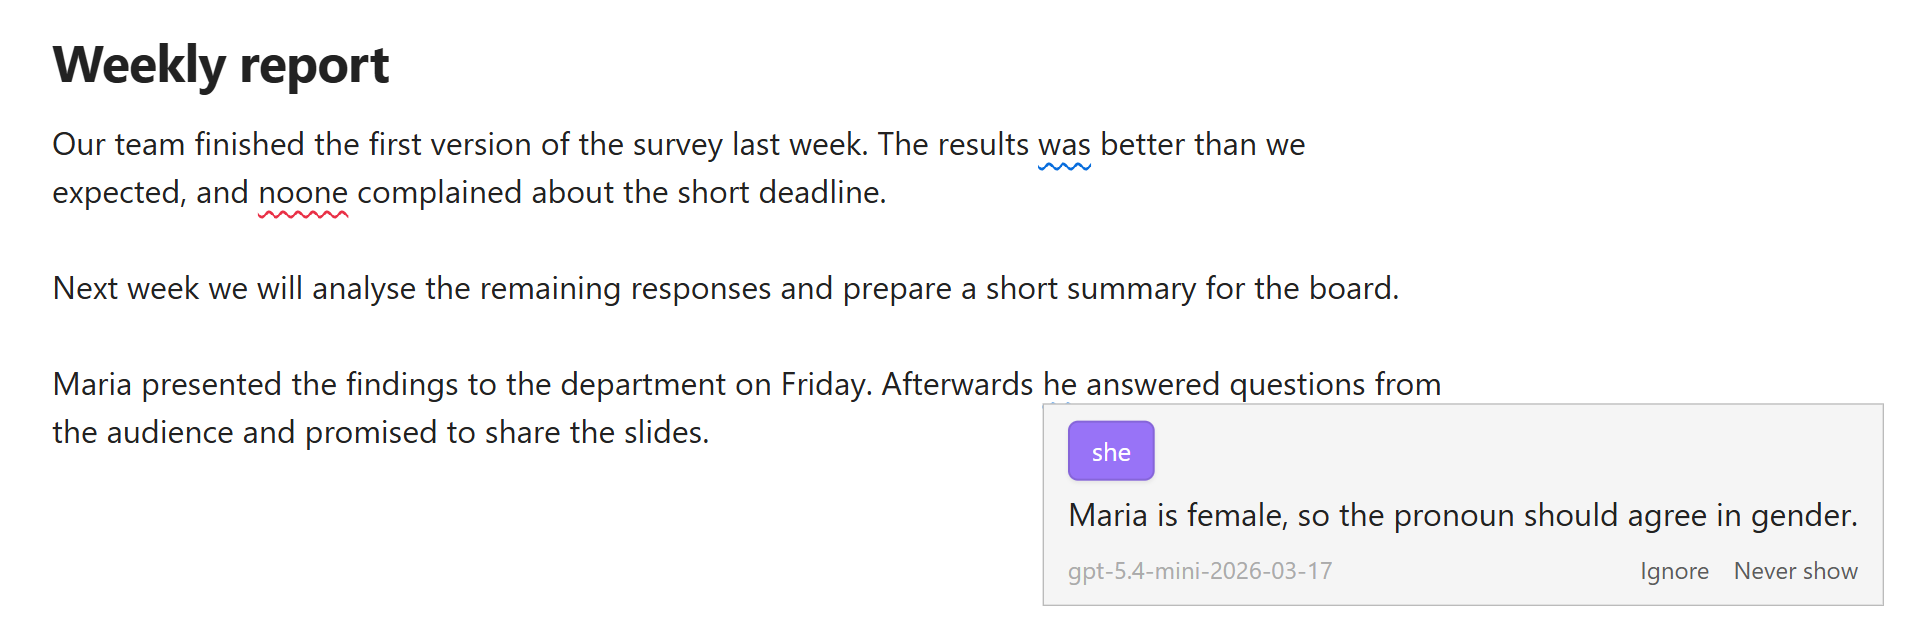
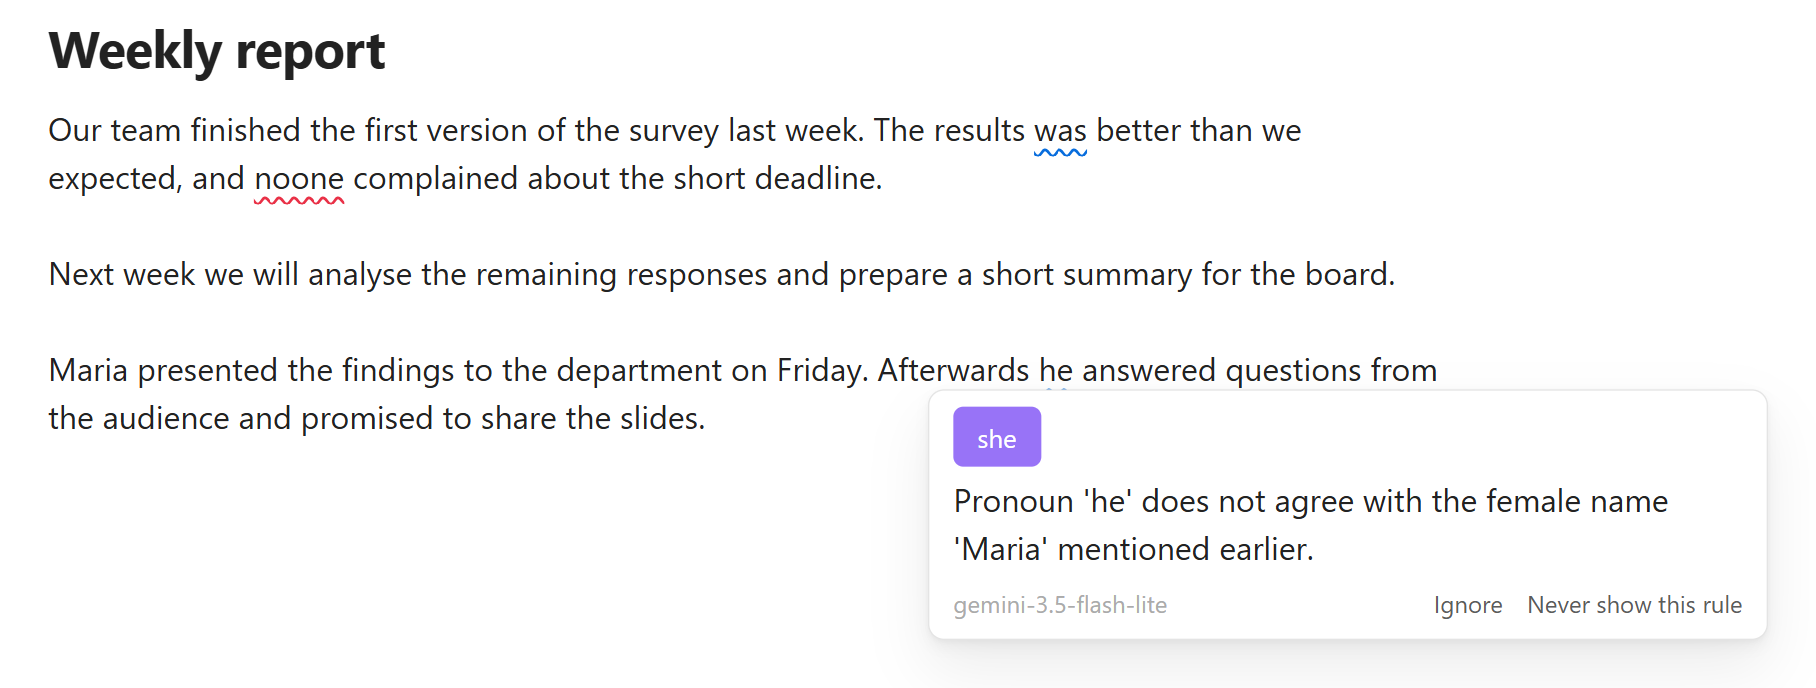
BlueProof 0.4.13
From the development repository's main @ d9886bf.

Changed region(s): [[0.0308, 0.0306, 0.7709, 0.4903], [0.0308, 0.521, 0.9868, 0.95], [0.0308, 0.6742, 0.37, 0.7355]]

diff --git a/README.md b/README.md
@@ -1,21 +1,28 @@
 
 # BlueProof
 
-Spelling and grammar checking for Obsidian by a language model, on your own computer or in the cloud (OpenAI, Anthropic, Google Gemini). It catches the errors
-rule-based checkers miss, as you write. Desktop only.
+Spelling and grammar checking for Obsidian by a language model that reads the whole sentence: it catches the errors
+rule-based checkers miss, leaves your LaTeX formulas alone, and checks each paragraph in its own language. The model
+runs on your own computer or in the cloud (OpenAI, Anthropic, Google Gemini). Desktop only.
 
 ![A note with underlined errors and the popup with fixes](docs/images/underlines.png)
 
 ## Features
 
-- **Finds more.** A language model reads the whole sentence, and the one before it: "Mary opened the book. Then he wrote
-  the answer." On our test sentences models found far more errors than LanguageTool.
-- **Underlines as you write**: red for spelling, blue for grammar. Click one for the fixes.
-- **Spelling** with Windows' own checker or Hunspell dictionaries, plus your own word lists kept as notes.
+- **Reads for meaning.** The model checks each sentence against the ones before it: "Maria presented the findings.
+  Afterwards he answered questions." On our test sentences models found far more errors than LanguageTool.
+- **Math stays out of the way.** A formula in the middle of a sentence confuses most checkers. BlueProof keeps
+  formulas out of the check, never changes them, and still checks the sentence around them.
 - **Many languages**, a different one in each paragraph.
-- **Never slows your typing**: checks run after a pause, only on what changed.
-- **Leaves code, links and math alone**, LaTeX formulas included, while the sentence around them is still checked.
-- **Style suggestions** on a command; nothing in your note changes until you pick a fix.
+- **Underlines as you write**: red for spelling, blue for grammar. Click one for the fixes; nothing in your note changes
+  until you pick one.
+- **Never slows your typing**: checks run after a pause, only on what changed. Long paragraphs are cut at sentence ends,
+  each piece with the sentence before it for context: as many errors found, two to four times sooner.
+- **Few false alarms.** A fix that rewrites the sentence, translates a word or changes a number is thrown away.
+- **Spelling** with Windows' own checker or Hunspell dictionaries, plus your own word lists kept as notes.
+- **Style suggestions** on a command.
+
+![Errors around formulas underlined, the formulas untouched](docs/images/formulas.png)
 
 A spelling checker sees one word; the model reads the sentence. Here the dictionary offers *don't*, and the model,
 seeing *She*, gives *doesn't* and says why:
@@ -32,74 +39,68 @@ into `<your vault>/.obsidian/plugins/blueproof/`, and turn on **BlueProof** unde
 
 ## Setup
 
-**Spelling** works at once on Windows (Windows' own spell checker), in the languages installed in Windows: a note in
-American English needs English (United States) there, not only English (United Kingdom); **Settings → BlueProof → Spelling** lists the ones Windows has. On Linux and macOS, download a
-dictionary for your language in **Settings → BlueProof → Spelling → Manage…** (the system's Hunspell dictionaries count
-too). (Not tested on macOS yet.) A language with no dictionary gets ⚠ in the status bar.
+### Spelling
+
+**Windows**: works at once, with Windows' own spell checker, in the languages installed in Windows. A note in American
+English needs English (United States) there, not only English (United Kingdom); **Settings → BlueProof → Spelling**
+lists the ones Windows has.
+
+**Linux and macOS**: download a dictionary for your language in **Settings → BlueProof → Spelling → Manage…** (the
+system's Hunspell dictionaries count too). Not tested on macOS yet.
+
+A language with no dictionary gets ⚠ in the status bar.
 
 While BlueProof checks spelling, Obsidian's own spellcheck (**Settings → Editor → Spellcheck**) is kept out of the
 note's text, so a word is not underlined twice. That setting is not changed: turn BlueProof's spelling, checking while
-typing or the plugin off, or mark a note `blueproof: off`, and Obsidian's is back; in a note with a language BlueProof
-has no dictionary for (⚠), Obsidian's checks it meanwhile. It still checks the note's title and properties.
+typing or the plugin off, or mark a note `blueproof: off`, and Obsidian's is back. Obsidian's still checks a note in a
+language BlueProof has no dictionary for (⚠), and the note's title and properties.
 
-**Grammar** needs a language model. Choose where it runs:
+### Grammar
 
-- **OpenAI**, **Anthropic (Claude)** or **Google Gemini**: works on any computer; paid per use (Gemini has a free tier
-  with a daily limit); the paragraphs being checked go to that company. How the cloud models compare: [docs/servers.md](docs/servers.md).
-- **A model on your own computer**: free and private; needs a graphics card with about 8–12 GB of memory.
+Grammar needs a language model. Choose where it runs:
 
-### OpenAI
+- **In the cloud: OpenAI, Anthropic (Claude) or Google Gemini.** Works on any computer; paid per use (Gemini has a free
+  tier with a daily limit); the paragraphs being checked go to that company.
+- **On your own computer: Ollama, llama.cpp or LM Studio.** Free and private; needs a graphics card with about 8–12 GB
+  of memory.
 
-1. Create an API key at [platform.openai.com/api-keys](https://platform.openai.com/api-keys).
-2. **Settings → BlueProof → Model server**: choose **OpenAI**, paste the key, pick a model (`gpt-5.4-mini`: as accurate
-   as the best and the fastest in our tests).
-3. Press **Check** at the top of the settings.
+How the models compare, and which suits which language: [docs/servers.md](docs/servers.md).
 
-![Settings with OpenAI](docs/images/settings-openai.png)
+**OpenAI**: create an API key at [platform.openai.com/api-keys](https://platform.openai.com/api-keys); in
+**Settings → BlueProof → Model server** choose **OpenAI**, paste the key, pick a model (`gpt-5.4-mini`: as accurate as
+the best and the fastest in our tests), and press **Check** at the top of the settings.
 
-### Anthropic (Claude)
+**Anthropic (Claude)**: create an API key in the [Claude Console](https://console.anthropic.com/settings/keys); choose
+**Anthropic Claude**, paste the key, pick a model (`claude-sonnet-5-5` found the most in our tests, `claude-haiku-5-5`
+made no false finding and is quicker), and press **Check**.
 
-1. Create an API key in the [Claude Console](https://console.anthropic.com/settings/keys).
-2. **Settings → BlueProof → Model server**: choose **Anthropic Claude**, paste the key, pick a model:
-   `claude-sonnet-5-5` found the most in our tests, `claude-haiku-5-5` made no false finding and is quicker.
-3. Press **Check** at the top of the settings.
+**Google Gemini**: create an API key in [Google AI Studio](https://aistudio.google.com/apikey) (free, with daily limits;
+far higher ones with billing set up); choose **Google Gemini**, paste the key, pick a model, and press **Check**. Measured
+2026-10-11 (Google's models change): `gemini-3.8-flash` found the most of all the cloud models in our tests, slower on
+long paragraphs; `gemini-3.5-flash-lite` is the fastest and cheapest, and the one a free key allows most of (500
+requests a day, the Flash models 20). Pro and Gemma are not worth it: [docs/servers.md](docs/servers.md). On the free tier Google may use what is sent to improve its products; with
+billing set up it does not.
 
-### Google Gemini
+![The model server settings with Google Gemini](docs/images/settings.png)
 
-1. Create an API key in [Google AI Studio](https://aistudio.google.com/apikey) (free, with daily limits; far higher
-   ones with billing set up).
-2. **Settings → BlueProof → Model server**: choose **Google Gemini**, paste the key, pick a model (measured 2026-10-11;
-   Google's models change): `gemini-3.8-flash` found the most of all the cloud models in our tests, slower on long
-   paragraphs; `gemini-3.5-flash-lite` is the fastest and cheapest, and the one a free key allows most of (500 requests
-   a day, the Flash models 20). Pro and Gemma are not worth it: [docs/servers.md](docs/servers.md). On the free tier
-   Google may use what is sent to improve its products; with billing set up it does not.
-3. Press **Check** at the top of the settings.
+**Ollama**: install [Ollama](https://ollama.com) and run `ollama pull qwen3:14b`; choose **Ollama**, pick `qwen3:14b`
+from the list, and press **Check**.
 
-### Ollama
+<details>
+<summary><b>llama.cpp</b> and <b>LM Studio</b></summary>
 
-1. Install [Ollama](https://ollama.com) and run `ollama pull qwen3:14b`.
-2. **Model server**: choose **Ollama**, pick `qwen3:14b` from the list.
-3. Press **Check**.
+**llama.cpp**: download [llama.cpp](https://github.com/ggml-org/llama.cpp/releases) for your system and a model file
+(`.gguf`, e.g. Qwen3 14B `Q4_K_M`) from Hugging Face; start it with
+`llama-server -m Qwen_Qwen3-14B-Q4_K_M.gguf --port 8080 -ngl 99`; choose **llama.cpp** and press **Check**.
 
-![Settings with Ollama](docs/images/settings-ollama.png)
+**LM Studio** (not tested yet): in [LM Studio](https://lmstudio.ai), download a model, load it and start the local
+server; choose **LM Studio**, pick the model and press **Check**. It should work like the others, but we have not tried
+it yet: treat it as experimental.
 
-### llama.cpp
+</details>
 
-1. Download [llama.cpp](https://github.com/ggml-org/llama.cpp/releases) for your system and a model file (`.gguf`,
-   e.g. Qwen3 14B `Q4_K_M`) from Hugging Face.
-2. Start it: `llama-server -m Qwen_Qwen3-14B-Q4_K_M.gguf --port 8080 -ngl 99`
-3. **Model server**: choose **llama.cpp**, press **Check**.
-
-### LM Studio (not tested yet)
-
-1. In [LM Studio](https://lmstudio.ai), download a model, load it and start the local server.
-2. **Model server**: choose **LM Studio**, pick the model, press **Check**.
-
-It should work like the others, but we have not tried it yet: treat it as experimental.
-
-A server on another computer, and which model suits which language: [docs/servers.md](docs/servers.md).
-
-The first check after a local model starts can take a minute while it loads.
+A local model can take a minute to load on the first check after it starts. A server on another computer:
+[docs/servers.md](docs/servers.md).
 
 ## Using it
 
@@ -147,17 +148,6 @@ eigenvalue eigenvector
 **Find unknown words in my notes** (a command) lists the unknown words of your vault, most
 frequent first, so you can add the right ones in one go. Examples to start from:
 [docs/dictionaries](docs/dictionaries).
-
-## Why BlueProof
-
-- **It reads for meaning.** Rule-based checkers catch typos and common slips but miss errors that need the sentence
-  understood. The model is also asked to check each sentence against the ones before it: pronouns, gender, number,
-  tenses.
-- **Formulas stay out of the way.** A LaTeX formula in the middle of a sentence usually confuses a checker. BlueProof
-  keeps formulas out of the check and still checks the sentence around them.
-- **Fewer false alarms.** A fix that rewrites the sentence, translates a word or changes a number is thrown away.
-- **Long paragraphs are cut at sentence ends**, each piece with the sentence before it for context: as many errors found
-  as sending the whole paragraph, two to four times sooner.
 
 ## Privacy
 
